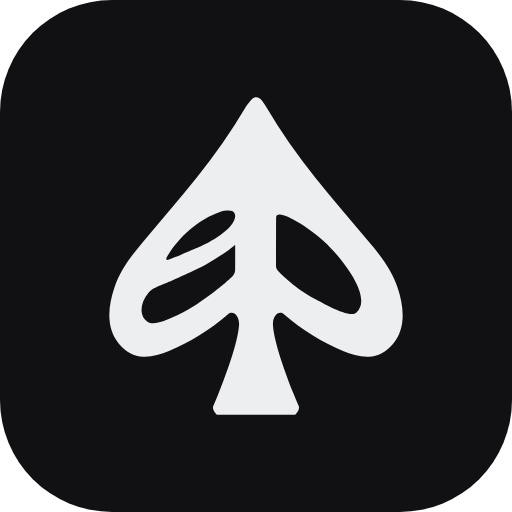
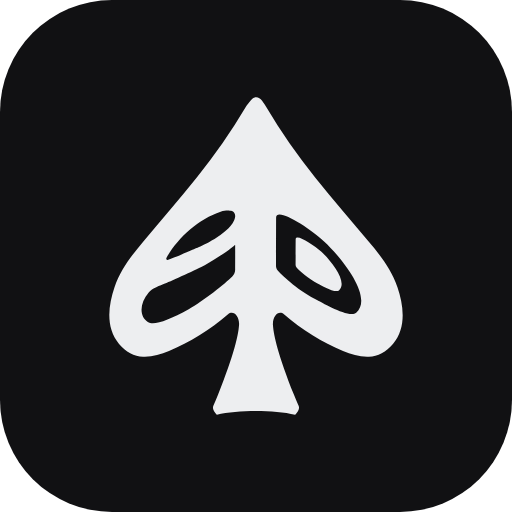
Correct the mark's base and the weight of the P
Two things the drawn artwork could not settle on its own.

The spade closed on an implicit straight line: a dead level 126 unit edge
under otherwise organic curves, which read as a machine cut. The close is
now an explicit shallow curve and the stem flares into a pedestal.

The P's bowl was a solid wedge against an E made of two tapered strokes,
which is the whole reason the mark looked right-heavy rather than tilted.
The bowl is now a ring, the drawn outline with a copy of itself at 0.54
inside it, which is what a P's bowl is and what gives it the E's weight. It
also survives 40px, where the wedge closed into a blob.

The mark is sized by height everywhere now. Pinning a 473x512 shape to one
number letterboxed it and put back the whitespace the crop removed, and the
masthead mark stands exactly as tall as the two lines beside it.

Tab icons carry the solid spade, since counters close up by 32px; home
screen icons keep the monogram.

Changed region(s): [[0.5625, 0.4688, 0.6875, 0.5625], [0.4375, 0.7812, 0.5625, 0.8125]]

diff --git a/client/src/ui/logo.tsx b/client/src/ui/logo.tsx
@@ -6,26 +6,58 @@
    the drawn artwork (a black spade with white letters painted on top) went
    invisible on the dark ground.
 
-   This constant is the geometry's only home in the repo. `public/logo.svg`
-   and the logo PNGs are exports of it; regenerate them rather than editing
-   them, or they drift. Cropped from Main 01 Artboard 1.svg, whose 1920x1080
-   artboard was almost entirely whitespace. */
-export const LOGO_VIEWBOX = '0 0 473.01 511.82';
-export const LOGO_PATH = 'M997.38,719.34c0,0,8.85-7.63,5.82-14.31c-2.03-4.46-4.32-9.7-7.65-18.1c-25.49-64.25-32.46-94.85-33.74-111.89 c-1.1-14.62,9.25-24.82,17.71-17.51c29.54,25.55,61.69,45.51,95.23,59.08c13.6,5.5,27.64,9.99,41.81,9.3 c14.18-0.69,28.06-8.1,38.69-20.7c22.03-26.1,17.38-61.79,7.32-91.43c-10.06-29.64-28.45-52.24-46.52-73.69 c-57.79-68.64-117.7-135.29-165.31-217.17c-1.35-2.33-3.84-6-6.46-9.72c-5.03-7.16-12.65-7.6-18.01-1.05 c-3.14,3.83-6.27,7.59-8.09,10.71c-47.61,81.88-107.52,148.53-165.31,217.17c-18.07,21.46-36.46,44.05-46.52,73.69 c-10.06,29.64-14.71,65.33,7.32,91.43c10.63,12.6,24.52,20.01,38.69,20.7c14.18,0.69,28.21-3.8,41.81-9.3 c33.54-13.56,65.69-33.53,95.23-59.08c8.45-7.31,18.81,2.89,17.71,17.51c-1.28,17.04-8.25,47.64-33.74,111.89 c-3.33,8.39-5.62,13.64-7.64,18.09c-3.04,6.68,5.82,14.32,5.82,14.32 M790.66,465.25c18.69-32.37,51.34-61.7,86.81-73.36c9.73-3.2,16.18-1.35,16.18-1.35 c2.19,0,11.03,3.31,5.43,15.71c-10.36,22.9-54.73,42.04-55.46,42.42c0,0-40.92,17.87-51.52,21.1c-1.26,0.38-2.49-0.66-2.32-1.97 C789.88,467.03,790.11,466.2,790.66,465.25z M900.84,485.8c-0.01,3.89-1.54,7.61-4.25,10.34c-12.02,12.05-46.64,39.81-70.64,52.97 c-33.73,18.49-56.57,26.91-65.97,20.55c-14.57-9.85-12.69-30.99,1.5-47.52c5.47-6.37,18.48-11.31,26.21-14.37 c11.77-4.66,52.9-23.63,64.12-29.56c15.73-8.3,41.14-25.77,48.22-32.31c0.32-0.3,0.83-0.08,0.84,0.36 C900.94,451.88,900.88,475.23,900.84,485.8z M969.55,486.64c-1.84-2.07-2.86-4.76-2.86-7.57c0.04-13.98,0.2-64.11,0.2-77.5c0-17.7,52.03,15.04,76.92,37.96 c28.8,26.53,80.41,90.9,52.2,115.37c-11.01,9.56-56.46-17.24-62.48-20.19C1004.9,520.65,978.15,496.31,969.55,486.64z';
-export const LOGO_TRANSFORM = 'translate(-697.96 -207.52)';
+   Two corrections to the drawn artwork, both deliberate:
 
-export function Logo({ size = 24, className }: { size?: number | string; className?: string }) {
+   - The spade closed on an implicit straight line, a dead level 126 unit edge
+     that read as a machine cut under otherwise organic curves. The close is
+     now an explicit shallow curve, so the stem flares into a pedestal.
+   - The P's bowl was a solid wedge against an E made of two tapered strokes,
+     which is what made the mark look right-heavy. The bowl is now a ring: the
+     drawn outline with a copy of itself scaled to 0.54 about its own centre
+     sitting inside it, which under evenodd fills the middle back in. That is
+     what a P's bowl actually is, and it holds its shape down to about 40px
+     where the solid wedge closed up into a blob.
+
+   `solid` drops the counters entirely, for sizes where even the ring closes
+   up: below roughly 20px the E's strokes are under a pixel each. A solid
+   spade still reads as the same mark.
+
+   The spade is symmetric to within antialiasing: row midpoints average 499.6
+   of a perfect 499.5 on a 1000px raster.
+
+   These constants are the geometry's only home in the repo. `public/logo.svg`,
+   the favicon and the icon PNGs are exports of them; regenerate rather than
+   edit, or they drift. Cropped from Main 01 Artboard 1.svg, whose 1920x1080
+   artboard was almost entirely whitespace: this viewBox is the ink exactly,
+   with zero slack on all four sides. */
+export const LOGO_VIEWBOX = '0 0 473.01 511.82';
+export const LOGO_TRANSFORM = 'translate(-697.96 -207.52)';
+export const LOGO_PATH = 'M997.38,719.34c0,0,8.85-7.63,5.82-14.31c-2.03-4.46-4.32-9.7-7.65-18.1c-25.49-64.25-32.46-94.85-33.74-111.89 c-1.1-14.62,9.25-24.82,17.71-17.51c29.54,25.55,61.69,45.51,95.23,59.08c13.6,5.5,27.64,9.99,41.81,9.3 c14.18-0.69,28.06-8.1,38.69-20.7c22.03-26.1,17.38-61.79,7.32-91.43c-10.06-29.64-28.45-52.24-46.52-73.69 c-57.79-68.64-117.7-135.29-165.31-217.17c-1.35-2.33-3.84-6-6.46-9.72c-5.03-7.16-12.65-7.6-18.01-1.05 c-3.14,3.83-6.27,7.59-8.09,10.71c-47.61,81.88-107.52,148.53-165.31,217.17c-18.07,21.46-36.46,44.05-46.52,73.69 c-10.06,29.64-14.71,65.33,7.32,91.43c10.63,12.6,24.52,20.01,38.69,20.7c14.18,0.69,28.21-3.8,41.81-9.3 c33.54-13.56,65.69-33.53,95.23-59.08c8.45-7.31,18.81,2.89,17.71,17.51c-1.28,17.04-8.25,47.64-33.74,111.89 c-3.33,8.39-5.62,13.64-7.64,18.09c-3.04,6.68,5.82,14.32,5.82,14.32 C 905,711.26 964,711.26 997.38,719.34 M790.66,465.25c18.69-32.37,51.34-61.7,86.81-73.36c9.73-3.2,16.18-1.35,16.18-1.35 c2.19,0,11.03,3.31,5.43,15.71c-10.36,22.9-54.73,42.04-55.46,42.42c0,0-40.92,17.87-51.52,21.1c-1.26,0.38-2.49-0.66-2.32-1.97 C789.88,467.03,790.11,466.2,790.66,465.25z M900.84,485.8c-0.01,3.89-1.54,7.61-4.25,10.34c-12.02,12.05-46.64,39.81-70.64,52.97 c-33.73,18.49-56.57,26.91-65.97,20.55c-14.57-9.85-12.69-30.99,1.5-47.52c5.47-6.37,18.48-11.31,26.21-14.37 c11.77-4.66,52.9-23.63,64.12-29.56c15.73-8.3,41.14-25.77,48.22-32.31c0.32-0.3,0.83-0.08,0.84,0.36 C900.94,451.88,900.88,475.23,900.84,485.8z M969.55,486.64c-1.84-2.07-2.86-4.76-2.86-7.57c0.04-13.98,0.2-64.11,0.2-77.5c0-17.7,52.03,15.04,76.92,37.96 c28.8,26.53,80.41,90.9,52.2,115.37c-11.01,9.56-56.46-17.24-62.48-20.19C1004.9,520.65,978.15,496.31,969.55,486.64z M999.86,482.08 c-0.99,-1.12,-1.54,-2.57,-1.54,-4.09 c0.02,-7.55,0.11,-34.62,0.11,-41.85 c0.00,-9.56,28.10,8.12,41.54,20.50 c15.55,14.33,43.42,49.09,28.19,62.30 c-5.95,5.16,-30.49,-9.31,-33.74,-10.90 C1018.95,500.45,1004.50,487.31,999.86,482.08 Z';
+export const LOGO_SOLID_PATH = 'M997.38,719.34c0,0,8.85-7.63,5.82-14.31c-2.03-4.46-4.32-9.7-7.65-18.1c-25.49-64.25-32.46-94.85-33.74-111.89 c-1.1-14.62,9.25-24.82,17.71-17.51c29.54,25.55,61.69,45.51,95.23,59.08c13.6,5.5,27.64,9.99,41.81,9.3 c14.18-0.69,28.06-8.1,38.69-20.7c22.03-26.1,17.38-61.79,7.32-91.43c-10.06-29.64-28.45-52.24-46.52-73.69 c-57.79-68.64-117.7-135.29-165.31-217.17c-1.35-2.33-3.84-6-6.46-9.72c-5.03-7.16-12.65-7.6-18.01-1.05 c-3.14,3.83-6.27,7.59-8.09,10.71c-47.61,81.88-107.52,148.53-165.31,217.17c-18.07,21.46-36.46,44.05-46.52,73.69 c-10.06,29.64-14.71,65.33,7.32,91.43c10.63,12.6,24.52,20.01,38.69,20.7c14.18,0.69,28.21-3.8,41.81-9.3 c33.54-13.56,65.69-33.53,95.23-59.08c8.45-7.31,18.81,2.89,17.71,17.51c-1.28,17.04-8.25,47.64-33.74,111.89 c-3.33,8.39-5.62,13.64-7.64,18.09c-3.04,6.68,5.82,14.32,5.82,14.32 C 905,711.26 964,711.26 997.38,719.34';
+
+/* Height only. The mark is 473 x 512, so pinning both axes to one number
+   letterboxes it inside its own box and reintroduces the whitespace the crop
+   removed. Width is left to the aspect ratio. */
+export function Logo({ height, solid = false, className }: {
+  height?: number | string;
+  solid?: boolean;
+  className?: string;
+}) {
   return (
     <svg
       className={className}
       viewBox={LOGO_VIEWBOX}
-      width={size}
-      height={size}
+      height={height}
       role="img"
       aria-label="EveryonePoker"
       focusable="false"
     >
-      <path fill="currentColor" fillRule="evenodd" transform={LOGO_TRANSFORM} d={LOGO_PATH} />
+      <path
+        fill="currentColor"
+        fillRule="evenodd"
+        transform={LOGO_TRANSFORM}
+        d={solid ? LOGO_SOLID_PATH : LOGO_PATH}
+      />
     </svg>
   );
 }

diff --git a/client/src/routes/home.css b/client/src/routes/home.css
@@ -222,7 +222,14 @@ main.page.home-page { max-width: 1180px; }
   color: var(--text-primary);
   padding-block: var(--sp-2) var(--sp-3);
 }
-.home-brand-mark { flex: none; }
+/* Exactly as tall as the two lines beside it: the name's line box, the gap
+   and the strapline's, which is the block the mark is standing against. Width
+   follows the aspect ratio, so the mark keeps the tight crop it was given. */
+.home-brand-mark {
+  flex: none;
+  height: calc(var(--lh-5) + var(--sp-1) + var(--lh-3));
+  width: auto;
+}
 .home-brand-text { display: flex; flex-direction: column; gap: var(--sp-1); min-width: 0; }
 .home-brand-name {
   font-size: 34px; line-height: var(--lh-5); font-weight: 600; letter-spacing: -0.02em;
@@ -231,8 +238,9 @@ main.page.home-page { max-width: 1180px; }
 
 @media (max-width: 560px) {
   .home-brand { gap: var(--sp-4); }
-  .home-brand-mark { width: 52px; height: 52px; }
-  .home-brand-name { font-size: 26px; }
+  .home-brand-name { font-size: 26px; line-height: var(--lh-4); }
+  /* Same rule as above, against the smaller name. */
+  .home-brand-mark { height: calc(var(--lh-4) + var(--sp-1) + var(--lh-3)); }
 }
 
 .player-bar {

diff --git a/client/src/app.css b/client/src/app.css
@@ -240,9 +240,11 @@
   display: inline-flex; align-items: center; gap: var(--sp-2);
 }
 /* The mark takes its colour from the link, so it inverts with the theme along
-   with the name it sits beside. Sized in em so it tracks the wordmark's own
-   font-size rather than needing a second breakpoint. */
-.wordmark-mark { flex: none; }
+   with the name it sits beside. Height only, in em, so it tracks the
+   wordmark's own font-size and the width follows the aspect ratio rather than
+   letterboxing inside a square. The solid spade is drawn here rather than the
+   cut-out one: at 16px the E's strokes are under a pixel and close up. */
+.wordmark-mark { flex: none; height: 1.25em; width: auto; }
 .top .spacer { flex: 1; }
 .whoami { display: flex; align-items: baseline; gap: 6px; font-size: var(--font-size-ui); white-space: nowrap; flex: none; }
 .whoami .r { color: var(--text-secondary); font-variant-numeric: tabular-nums; }

diff --git a/client/src/routes/home.tsx b/client/src/routes/home.tsx
@@ -157,7 +157,7 @@ export function Home() {
           else it rides at text height in the top bar, and a logo repeated
           large on every screen stops being a landmark. */}
       <header className="home-brand">
-        <Logo className="home-brand-mark" size={76} />
+        <Logo className="home-brand-mark" />
         <span className="home-brand-text">
           <span className="home-brand-name">EveryonePoker</span>
           <span className="home-brand-line">Free ranked poker. No money, no rake, no ads.</span>

diff --git a/client/src/ui/shell.tsx b/client/src/ui/shell.tsx
@@ -148,7 +148,7 @@ export function SiteShell({ children }: { children: ReactNode }) {
           onClick={() => (open ? close() : setOpen(true))}
         />
         <Link className="wordmark" to="/">
-          <Logo className="wordmark-mark" size="1.15em" />
+          <Logo className="wordmark-mark" solid />
           EveryonePoker
         </Link>
         <span className="spacer" />
